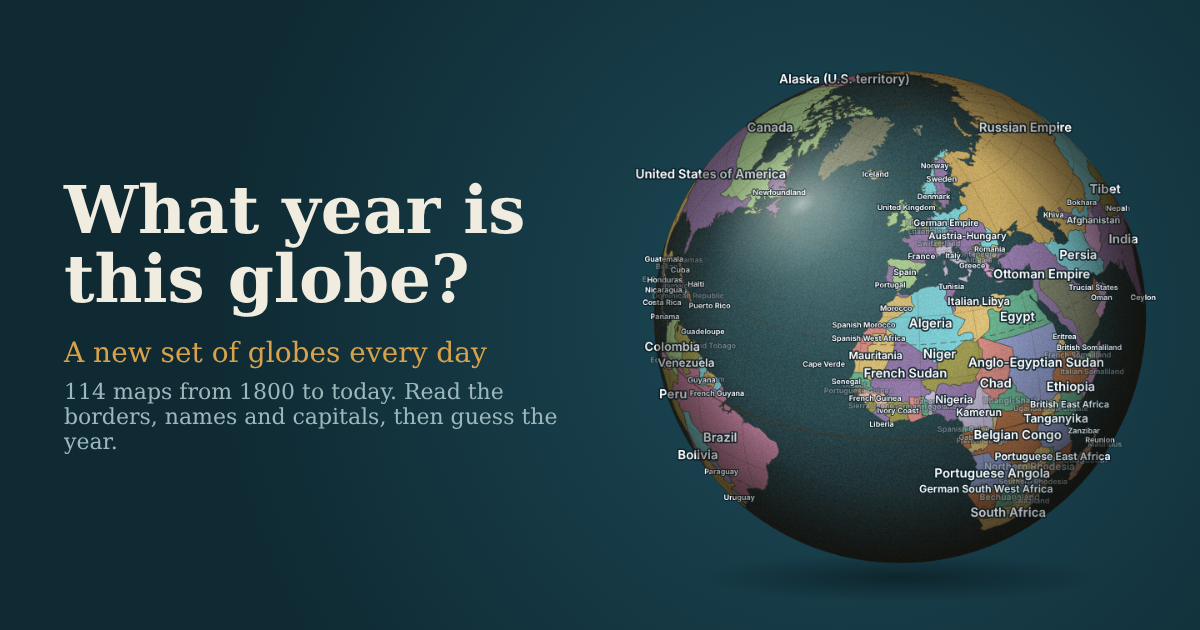
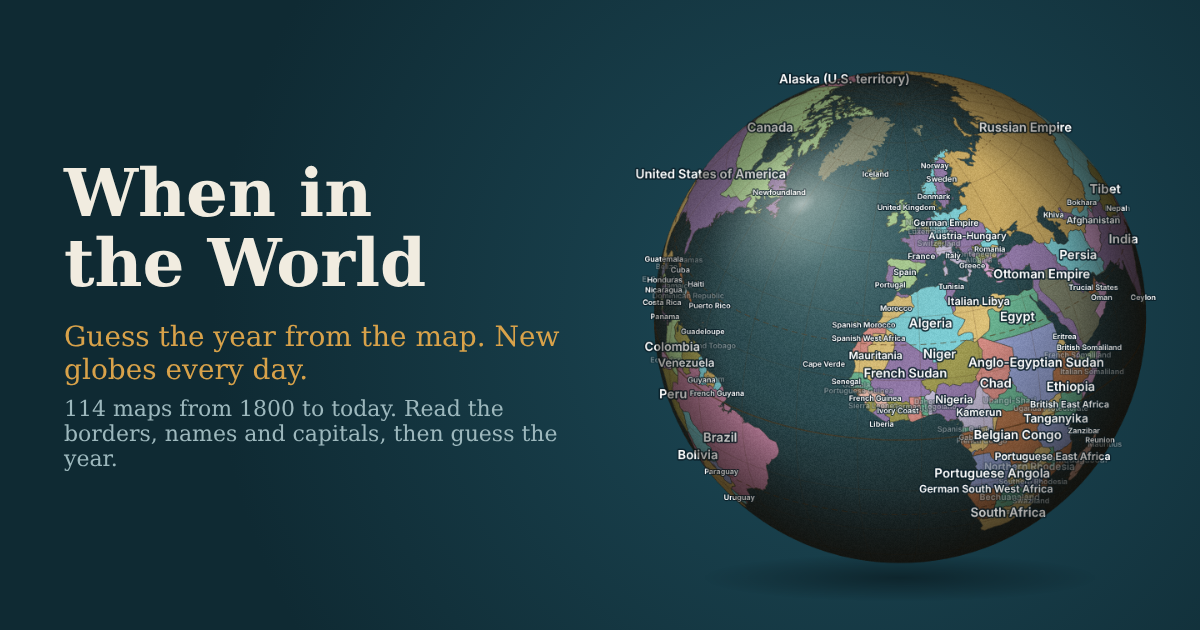
Add files via upload

Changed region(s): [[0.0308, 0.2413, 0.4625, 0.754]]

diff --git a/index (2).html b/index (2).html
@@ -1,0 +1,334 @@
+<!DOCTYPE html>
+<html lang="en"><head><meta charset="utf-8">
+<meta name="viewport" content="width=device-width, initial-scale=1, viewport-fit=cover">
+<title>When in the World</title>
+<meta name="description" content="A daily history and geography game. Spin a globe from any year between 1800 and today, read the borders, names and capitals, and guess the year.">
+<meta property="og:title" content="When in the World">
+<meta property="og:description" content="Spin a historical globe, read the borders and capitals, and guess the year. New set every day.">
+<meta property="og:type" content="website">
+<meta property="og:image" content="og-image.png">
+<meta name="twitter:card" content="summary_large_image">
+<meta name="theme-color" content="#0f2a33">
+<link rel="icon" href="favicon.svg" type="image/svg+xml">
+<style>
+:root{--bg:#0f2a33;--panel:#163b47;--ink:#f1ece0;--dim:#9db8bd;--brass:#d8a24a;--sea:#1d5d73;--good:#7fd1a0;--bad:#e98a7c;box-sizing:border-box;padding-top:env(safe-area-inset-top,0px);padding-bottom:env(safe-area-inset-bottom,0px)}
+@media (prefers-color-scheme:light){:root:not([data-theme="dark"]){--bg:#e4ecec;--panel:#d1dfe0;--ink:#12303a;--dim:#4a6a72;--brass:#8a5f12;--sea:#6aa0b3;--good:#1f7a49;--bad:#b0392b}}
+:root[data-theme="light"]{--bg:#e4ecec;--panel:#d1dfe0;--ink:#12303a;--dim:#4a6a72;--brass:#8a5f12;--sea:#6aa0b3;--good:#1f7a49;--bad:#b0392b}
+*{box-sizing:border-box}html,body{margin:0;min-height:100%}
+body{background:var(--bg);color:var(--ink);font-family:Palatino,"Palatino Linotype","Book Antiqua",Georgia,serif;line-height:1.5}
+main{max-width:780px;margin:0 auto;padding:20px 16px 40px;text-align:center}
+.tm{font-size:.45em;vertical-align:super;margin-left:2px;font-weight:400}h1{font-size:1.7rem;font-weight:600;margin:4px 0 2px}.sub{color:var(--dim);margin:0 0 14px}
+.bar{display:flex;justify-content:space-between;color:var(--dim);font-size:.95rem;margin-bottom:6px}
+#stage{position:relative;width:100%;aspect-ratio:1;max-width:720px;margin:0 auto;touch-action:none}
+canvas{width:100%;height:100%;display:block;cursor:grab}
+.zoom{position:absolute;top:6px;right:6px;display:flex;flex-direction:column;gap:6px}.zoom button{margin:0;padding:0;width:40px;height:40px;font-size:1.3rem;line-height:1}.zoom button#zr{font-size:.8rem}
+.hint{color:var(--dim);font-size:.9rem;margin:2px 0 14px}
+.year{font-size:3.2rem;font-weight:600;color:var(--brass);line-height:1.1;font-variant-numeric:tabular-nums}
+input[type=range]{width:100%;accent-color:var(--brass);height:36px}
+.ends{display:flex;justify-content:space-between;color:var(--dim);font-size:.85rem;margin-top:-6px}
+button{font:inherit;font-size:1.05rem;background:var(--brass);color:#1b1405;border:0;border-radius:6px;padding:11px 26px;margin-top:14px;cursor:pointer;font-weight:600}
+button:focus-visible,input:focus-visible,canvas:focus-visible{outline:3px solid var(--ink);outline-offset:2px}
+button.alt{background:transparent;color:var(--ink);border:1px solid var(--dim);margin-left:8px}button:disabled{opacity:.5;cursor:default}
+.card{background:var(--panel);border-radius:8px;padding:14px 16px;margin-top:14px;text-align:left}.card b{color:var(--brass)}
+.pts{font-size:1.5rem;font-weight:600}.hide{display:none}
+footer{max-width:780px;margin:0 auto;padding:0 16px 28px;text-align:center;color:var(--dim);font-size:.85rem}footer a{color:var(--dim)}
+.menu button{display:block;width:100%;margin:10px 0 0}.menu small{display:block;font-weight:400;opacity:.8;font-size:.85rem}
+.menu .big{font-size:1.25rem;padding:16px}.menu .locked{opacity:.65}.menu details{margin-top:16px;color:var(--dim)}.menu summary{cursor:pointer;color:var(--ink)}
+.kicker{color:var(--dim);margin:0 0 6px;font-size:.92rem}.kicker b{color:var(--brass);font-variant-numeric:tabular-nums}
+.stats{display:grid;grid-template-columns:repeat(4,1fr);gap:8px;text-align:center;margin:14px 0 6px}.stats div{background:var(--bg);border-radius:6px;padding:8px 2px}
+.stats b{display:block;font-size:1.4rem;color:var(--brass);font-variant-numeric:tabular-nums}.stats span{font-size:.72rem;color:var(--dim);line-height:1.2;display:block}
+table.bd{width:100%;border-collapse:collapse;font-size:.9rem;margin:10px 0;font-variant-numeric:tabular-nums}
+table.bd th,table.bd td{padding:6px 4px;border-bottom:1px solid rgba(157,184,189,.25);text-align:right}table.bd th:first-child,table.bd td:first-child{text-align:left}
+table.bd th{color:var(--dim);font-weight:400;font-size:.75rem;line-height:1.2}.tag{font-size:.7rem;color:var(--dim);border:1px solid var(--dim);border-radius:3px;padding:0 3px}
+.histo{display:flex;align-items:flex-end;gap:3px;height:60px;margin:10px 0 2px}.histo i{flex:1;background:var(--dim);opacity:.45;border-radius:2px 2px 0 0}.histo i.me{background:var(--brass);opacity:1}
+#res button{margin-right:8px}#res button.alt{margin-left:0}
+</style></head><body><main>
+<h1>When in the World<sup class="tm">™</sup></h1><p class="sub">What year is this globe? Read the borders and names. Their era gives it away.</p>
+<div id="menu" class="menu card"></div>
+<div id="game" class="hide"><div class="bar"><span id="rd"></span><span id="tot"></span></div>
+<div id="stage" class=""><canvas id="cv" tabindex="0" aria-label="Globe. Drag to spin, arrow keys also work."></canvas><div class="zoom"><button id="zi" aria-label="Zoom in">+</button><button id="zo" aria-label="Zoom out">−</button><button id="zr" aria-label="Reset zoom">1×</button></div></div>
+<p class="hint">Drag to spin · scroll, pinch or use + / − to zoom. Capitals (◉) and major cities appear once you zoom in.</p>
+<div id="guess"><div class="year" id="yr">1960</div>
+<input id="sl" type="range" min="1800" max="2025" value="1960" aria-label="Guess a year">
+<div class="ends"><span id="e1">1800</span><span id="e2">2025</span></div>
+<button id="go">Lock in guess</button><button id="hint" class="alt">Hint (−150)</button></div>
+<div id="res" class="card hide"></div><button id="next" class="hide">Next globe</button></div>
+<p id="err" class="card hide">Something went wrong.</p>
+</main>
+<footer>Map data: <a href="https://icr.ethz.ch/data/cshapes/">CShapes 2.0</a> (ETH Zürich, CC BY-NC-SA 4.0) and <a href="https://github.com/aourednik/historical-basemaps">Historical Basemaps</a> (GPL v3). <a href="credits.html">Credits, licences and privacy</a><br>© 2026 When in the World™</footer>
+<script src="data/globes-historical-basemaps.js"></script>
+<script src="data/globes-cshapes.js"></script>
+<script>/* if the map files were uploaded next to index.html instead of inside data/, load them from there */
+if(!window.HB_GLOBES)document.write('<script src="globes-historical-basemaps.js"><\/script>');
+if(!window.CS_GLOBES)document.write('<script src="globes-cshapes.js"><\/script>');</script>
+<script>
+// every globe comes from data/globes.js (built by build_globes.py): {y, lo, hi, note, f:[[shape, name]], caps:[[lat, lon, name]], cities:[[lat, lon, tier, name]]}
+const GL=(window.HB_GLOBES||[]).map(g=>({...g,S:HB_SHAPES})).concat((window.CS_GLOBES||[]).map(g=>({...g,S:CS_SHAPES}))),THIS_YEAR=new Date().getFullYear();
+if(GL.length&&GL[GL.length-1].hi<THIS_YEAR)GL[GL.length-1].hi=THIS_YEAR;   // nothing has changed since the last globe
+const MAXY=Math.max(THIS_YEAR,GL.length?GL[GL.length-1].hi:2025);
+// ---------- settings you can change ----------
+const CONFIG={
+  LAUNCH:"2026-10-27",   // puzzle #1 is played on this date (players' local time). Set it to your launch day.
+  UNLIMITED:"locked",    // "locked" shows Unlimited play as "coming soon"; "free" lets anyone play it
+  API:"/api"             // the scoreboard (Cloudflare Pages Functions in functions/api)
+};
+const MODES={easy:{pen:15,n:5,t:"Easy"},normal:{pen:25,n:8,t:"Normal"},hard:{pen:50,n:12,t:"Hard"},daily:{pen:25,n:5,t:"Daily"}};
+const _d=new Date(),TODAY=_d.getFullYear()+"-"+String(_d.getMonth()+1).padStart(2,"0")+"-"+String(_d.getDate()).padStart(2,"0");
+// 18 muted atlas colours, picked so every pair is clearly different (OKLab distance >= 0.076)
+const PAL=["#d8b86a","#967dc3","#7cebfe","#e3aeef","#bf784f","#64c7a7","#b3e9a7","#ec9695","#fdcac0","#97aef4","#a2a453","#ca84b3","#d6d2fd","#f2d585","#9dcce4","#c8a4c3","#b7cca4","#c19188"];
+const LZ=2; // country and city names stay hidden until you zoom in this far
+function lab(h){const f=i=>{const c=parseInt(h.slice(i,i+2),16)/255;return c<=.04045?c/12.92:((c+.055)/1.055)**2.4},r=f(1),g=f(3),b=f(5);
+  const l=Math.cbrt(.4122*r+.5363*g+.0514*b),m=Math.cbrt(.2119*r+.6807*g+.1074*b),q=Math.cbrt(.0883*r+.2817*g+.6300*b);
+  return[.2105*l+.7936*m-.0041*q,1.978*l-2.4286*m+.4506*q,.0259*l+.7828*m-.8087*q]}
+const PLAB=PAL.map(lab),dE=(i,j)=>Math.hypot(PLAB[i][0]-PLAB[j][0],PLAB[i][1]-PLAB[j][1],PLAB[i][2]-PLAB[j][2]);
+const $=id=>document.getElementById(id),cv=$("cv"),ctx=cv.getContext("2d"),css=n=>getComputedStyle(document.documentElement).getPropertyValue(n).trim();
+let order=[],idx=0,total=0,mode="normal",hintUsed=false,marks=[],lon0=0,lat0=20,drag=null,auto=true,zoom=1,FEATS=[],LAB=[],proj,path;
+window.onerror=(m,s,l)=>{$("err").textContent="Something went wrong: "+m+" (line "+l+")";$("err").classList.remove("hide")};
+const rad=Math.PI/180;
+const OFFS=[[0,0]];for(const r of [1,2,3])for(const [x,y] of [[0,1],[0,-1],[1.6,0],[-1.6,0],[1.2,.8],[-1.2,.8],[1.2,-.8],[-1.2,-.8]])OFFS.push([x*r,y*r]);
+if(!GL.length){$("menu").classList.add("hide");$("err").textContent="The map files did not load. Make sure globes-cshapes.js and globes-historical-basemaps.js were uploaded (inside a data folder, or next to index.html).";$("err").classList.remove("hide")}
+function size(){const r=cv.getBoundingClientRect(),d=devicePixelRatio||1;cv.width=r.width*d;cv.height=r.height*d}
+function hash(s){let h=0;for(const c of s)h=h*31+c.charCodeAt(0)|0;return Math.abs(h)}
+let BASE=null;
+function prep(){if(!BASE)BASE=LAND.flatMap(poly=>poly.map(dens));
+  // join pieces that share a name (e.g. two "Italy" shapes) so they get one colour and one label
+  const byName=new Map();
+  for(const[si,nm]of GL[order[idx]].f){const f={n:nm,...GL[order[idx]].S[si]},o=byName.get(f.n);
+    if(!o)byName.set(f.n,{n:f.n,g:f.g,a:f.a,c:f.c,big:f.a});else{o.g=o.g.concat(f.g);o.a+=f.a;if(f.a>o.big){o.big=f.a;o.c=f.c}}}
+  const m=[...byName.values()];
+  // neighbours: walk every border at 0.5 degree steps and treat shapes within ~1 degree of each other as touching
+  const cell=new Map(),nb=m.map(()=>new Set()),key=(x,y)=>(((x%720)+720)%720)+","+y;
+  const mark=(lon,lat,i)=>{const k=key(Math.round(lon*2),Math.round(lat*2));let c=cell.get(k);if(!c)cell.set(k,c=new Set());c.add(i)};
+  m.forEach((f,i)=>f.g.forEach(poly=>poly.forEach(r=>{for(let j=0;j<r.length;j++){const a=r[j],b=r[(j+1)%r.length],st=Math.max(1,Math.ceil(Math.hypot(b[0]-a[0],b[1]-a[1])*2));
+    if(Math.abs(b[0]-a[0])>180){mark(a[0],a[1],i);continue}
+    for(let t=0;t<st;t++)mark(a[0]+(b[0]-a[0])*t/st,a[1]+(b[1]-a[1])*t/st,i)}})));
+  cell.forEach((s,k)=>{const[x,y]=k.split(",").map(Number);for(let dx=-1;dx<=1;dx++)for(let dy=-1;dy<=1;dy++){const o=cell.get(key(x+dx,y+dy));if(o)for(const a of s)for(const b of o)if(a!==b)nb[a].add(b)}});
+  // DSatur colouring: colour the most constrained shape first, never reuse a neighbour's colour,
+  // and pick the colour that is most different from all neighbouring colours
+  const cols=new Array(m.length).fill(-1),use=new Array(PAL.length).fill(0);
+  for(let n=0;n<m.length;n++){let best=-1,bs=-1,bd=-1;
+    m.forEach((_,i)=>{if(cols[i]>=0)return;const sat=new Set([...nb[i]].map(j=>cols[j]).filter(c=>c>=0)).size;if(sat>bs||sat===bs&&nb[i].size>bd){best=i;bs=sat;bd=nb[i].size}});
+    const nc=[...nb[best]].map(j=>cols[j]).filter(c=>c>=0);let pick=0,ps=-1;
+    PAL.forEach((_,c)=>{if(nc.includes(c))return;const sep=nc.length?Math.min(...nc.map(o=>dE(c,o))):1,sc=sep-use[c]*.002;if(sc>ps){ps=sc;pick=c}});
+    cols[best]=pick;use[pick]++}
+  FEATS=m.map((f,i)=>({f,col:PAL[cols[i]],ci:cols[i],nb:nb[i],rings:f.g.flatMap(poly=>poly.map(dens))}));
+  LAB=m.filter(f=>f.n!=="Antarctica").sort((a,b)=>b.a-a.a)}
+function vec(lon,lat){const p=lat*rad,l=lon*rad;return[Math.cos(p)*Math.sin(l),Math.sin(p),Math.cos(p)*Math.cos(l)]}
+function dens(r){const out=[];let n=r.length;if(n>1&&r[0][0]===r[n-1][0]&&r[0][1]===r[n-1][1])n--;
+  for(let i=0;i<n;i++){const a=vec(r[i][0],r[i][1]),b=vec(r[(i+1)%n][0],r[(i+1)%n][1]);out.push(a[0],a[1],a[2]);
+    const th=Math.acos(Math.max(-1,Math.min(1,a[0]*b[0]+a[1]*b[1]+a[2]*b[2]))),k=Math.ceil(th/.045);
+    if(k>1&&th<3.1){const s=Math.sin(th);for(let j=1;j<k;j++){const t=j/k,w1=Math.sin((1-t)*th)/s,w2=Math.sin(t*th)/s;out.push(a[0]*w1+b[0]*w2,a[1]*w1+b[1]*w2,a[2]*w1+b[2]*w2)}}}
+  return Float32Array.from(out)}
+function setZoom(z){zoom=Math.min(14,Math.max(1,z));$("zr").textContent=(zoom<10?zoom.toFixed(1):Math.round(zoom))+"×"}
+function draw(){if(!cv.width||!order.length||!BASE||!$("game").offsetParent||$("stage").classList.contains("hide"))return;
+  const W=cv.width,H=cv.height,d=W/cv.getBoundingClientRect().width,M=Math.min(W,H);
+  // f = 1 when the whole globe is in view; it eases to 0 as you zoom in (the shadow under the globe fades out)
+  const f=Math.max(0,Math.min(1,(1.8-zoom)/.8));
+  const R=M*(.43-.02*f)*zoom,cx=W/2,cy=H/2-H*.03*f;
+  const cl=Math.cos(lon0*rad),sl=Math.sin(lon0*rad),cp=Math.cos(lat0*rad),sp=Math.sin(lat0*rad);
+  const rot=(x,y,z)=>{const x1=x*cl-z*sl,z1=x*sl+z*cl,y1=y*cp-z1*sp;return[x1,y1,y*sp+z1*cp]};
+  const P=(lon,lat)=>{const v=vec(lon,lat),r=rot(v[0],v[1],v[2]);return[cx+r[0]*R,cy-r[1]*R,r[2]]};
+  ctx.clearRect(0,0,W,H);
+  // soft shadow on the "table" under the globe
+  if(f>0){const sy=cy+R*1.06,sh=ctx.createRadialGradient(cx,sy,0,cx,sy,R*.8);sh.addColorStop(0,`rgba(0,0,0,${.38*f})`);sh.addColorStop(1,"rgba(0,0,0,0)");
+    ctx.save();ctx.translate(cx,sy);ctx.scale(1,.12);ctx.translate(-cx,-sy);ctx.fillStyle=sh;ctx.beginPath();ctx.arc(cx,sy,R*.8,0,7);ctx.fill();ctx.restore()}
+  // the sphere: ocean, then land, then the ink grid, then varnish and shading
+  const g=ctx.createRadialGradient(cx-R*.3,cy-R*.35,R*.1,cx,cy,R);g.addColorStop(0,css("--sea"));g.addColorStop(1,"#0b2a38");
+  ctx.beginPath();ctx.arc(cx,cy,R,0,7);ctx.fillStyle=g;ctx.fill();
+  ctx.save();ctx.beginPath();ctx.arc(cx,cy,R,0,7);ctx.clip();
+  ctx.lineWidth=.8*d;ctx.strokeStyle="rgba(25,35,35,.6)";
+  ctx.beginPath();for(const ring of BASE)trace(ring);ctx.fillStyle="#7d8b78";ctx.fill("evenodd");
+  for(const o of FEATS){ctx.beginPath();for(const ring of o.rings)trace(ring);ctx.fillStyle=o.col;ctx.fill("evenodd");ctx.stroke()}
+  // engraved-style grid in brown ink: every 15 degrees, plus the equator, tropics and polar circles
+  const line=(pts)=>{let pen=false;for(const[l,a]of pts){const p=P(l,a);if(p[2]>0){pen?ctx.lineTo(p[0],p[1]):ctx.moveTo(p[0],p[1]);pen=true}else pen=false}};
+  const par=a=>{const o=[];for(let l=-180;l<=180;l+=3)o.push([l,a]);return o},mer=l=>{const o=[];for(let a=-90;a<=90;a+=3)o.push([l,a]);return o};
+  ctx.strokeStyle="rgba(60,38,15,.28)";ctx.lineWidth=.8*d;ctx.beginPath();
+  for(let a=-75;a<=75;a+=15)if(a)line(par(a));for(let l=-180;l<180;l+=15)line(mer(l));ctx.stroke();
+  ctx.strokeStyle="rgba(70,40,12,.6)";ctx.lineWidth=1.5*d;ctx.beginPath();line(par(0));ctx.stroke();
+  ctx.setLineDash([7*d,5*d]);ctx.lineWidth=1.1*d;ctx.beginPath();line(par(23.44));line(par(-23.44));ctx.stroke();
+  ctx.setLineDash([2*d,4*d]);ctx.beginPath();line(par(66.56));line(par(-66.56));ctx.stroke();ctx.setLineDash([]);
+  ctx.fillStyle="rgba(150,105,45,.14)";ctx.fillRect(0,0,W,H);   // aged varnish tint
+  ctx.fillStyle=grain();ctx.fillRect(0,0,W,H);
+  const L=ctx.createRadialGradient(cx-R*.38,cy-R*.42,R*.1,cx-R*.12,cy-R*.12,R*1.22);L.addColorStop(0,"rgba(255,244,215,.22)");L.addColorStop(.5,"rgba(0,0,0,0)");L.addColorStop(1,"rgba(10,5,0,.6)");
+  ctx.fillStyle=L;ctx.fillRect(0,0,W,H);
+  ctx.restore();
+  function trace(ring){const n=ring.length/3,rp=new Float32Array(n*3);let any=false;
+    for(let i=0;i<n;i++){const r=rot(ring[i*3],ring[i*3+1],ring[i*3+2]);rp[i*3]=r[0];rp[i*3+1]=r[1];rp[i*3+2]=r[2];if(r[2]>=0)any=true}
+    if(!any)return;const out=[];
+    for(let i=0;i<n;i++){const j=(i+n-1)%n,cz=rp[i*3+2],pz=rp[j*3+2],cin=cz>=0,pin=pz>=0;
+      if(cin!==pin){const t=pz/(pz-cz),x=rp[j*3]+(rp[i*3]-rp[j*3])*t,y=rp[j*3+1]+(rp[i*3+1]-rp[j*3+1])*t,L=Math.hypot(x,y)||1;out.push([x/L,y/L,1])}
+      if(cin)out.push([rp[i*3],rp[i*3+1],0])}
+    const m=out.length;if(m<3)return;
+    for(let k=0;k<m;k++){const p=out[k],q=out[(k+1)%m];k?ctx.lineTo(cx+p[0]*R,cy-p[1]*R):ctx.moveTo(cx+p[0]*R,cy-p[1]*R);
+      if(p[2]&&q[2]){const a1=Math.atan2(p[1],p[0]);let da=Math.atan2(q[1],q[0])-a1;while(da>Math.PI)da-=2*Math.PI;while(da<-Math.PI)da+=2*Math.PI;
+        const st=Math.max(1,Math.ceil(Math.abs(da)/.07));for(let s=1;s<st;s++){const a=a1+da*s/st;ctx.lineTo(cx+Math.cos(a)*R,cy-Math.sin(a)*R)}}}
+    ctx.closePath()}
+  const boxes=[],G=GL[order[idx]],INK="rgba(10,30,40,.9)";let curFont="";
+  const hit=b=>boxes.some(o=>b[0]<o[2]&&b[2]>o[0]&&b[1]<o[3]&&b[3]>o[1]);
+  // draws a label unless it would overlap one already drawn (force draws it anyway)
+  // clean upright sans-serif with a thin dark outline reads far better at small sizes than italic serif
+  const FONT='"Segoe UI", system-ui, -apple-system, "Helvetica Neue", Arial, sans-serif';
+  const put=(txt,x,y,fs,weight,anchor,dx,force,alpha,queue)=>{const f=`${weight} ${fs.toFixed(1)}px ${FONT}`;if(f!==curFont){ctx.font=curFont=f}
+    const w=ctx.measureText(txt).width,x0=anchor==="l"?x+dx:x-w/2,b=[x0-1.5*d,y-fs*.58,x0+w+1.5*d,y+fs*.58];
+    if(b[2]<0||b[0]>W||b[3]<0||b[1]>H)return false;if(!force&&hit(b))return false;boxes.push(b);if(queue){queue.push([txt,x0,y,f,fs,alpha||1]);return true}
+    ctx.globalAlpha=alpha||1;ctx.textAlign="left";ctx.lineWidth=Math.max(2.2*d,fs*.22);ctx.strokeStyle=INK;ctx.strokeText(txt,x0,y);ctx.fillStyle="#fff";ctx.fillText(txt,x0,y);ctx.globalAlpha=1;return true};
+  ctx.textBaseline="middle";ctx.lineJoin="round";ctx.miterLimit=2;
+  // Every country on the visible side is named; text size follows its size on screen.
+  // Big countries are placed first (their names matter most), then smaller ones look for a free spot nearby.
+  // A label that cannot find a free spot nearby is still drawn, but faded so it does not hide readable ones.
+  const todo=[];for(const f of LAB){const p=P(f.c[0],f.c[1]);if(p[2]<.12)continue;const s=Math.sqrt(f.a)*rad*R;
+    todo.push({f,p,s,fs:Math.round(Math.max(9*d,Math.min(15*d,s*.3))*2)/2})}
+  todo.sort((a,b)=>b.s-a.s);let forced=0;const Q=[];
+  for(const t of todo){const reach=Math.max(t.s*.4,t.fs*2.4);let ok=false;
+    for(const [ox,oy] of OFFS){const dx=ox*t.fs*1.25,dy=oy*t.fs*1.25;if(Math.hypot(dx,dy)>reach)continue;
+      if(put(t.f.n,t.p[0]+dx,t.p[1]+dy,t.fs,600,"c",0,false,1,Q)){ok=true;break}}
+    if(!ok){forced++;put(t.f.n,t.p[0],t.p[1],t.fs,600,"c",0,true,.4,Q)}}
+  // faded (crowded) names go underneath, readable ones on top
+  Q.sort((a,b)=>a[5]-b[5]);ctx.textAlign="left";
+  for(const[txt,x0,y,f,fs,al]of Q){if(f!==curFont)ctx.font=curFont=f;ctx.globalAlpha=al;ctx.lineWidth=Math.max(2.2*d,fs*.22);ctx.strokeStyle=INK;ctx.strokeText(txt,x0,y);ctx.fillStyle="#fff";ctx.fillText(txt,x0,y)}ctx.globalAlpha=1;
+  window.__forced=forced;
+  // capitals (ringed dot) and major cities (plain dot), named as they were in this globe's years
+  const dot=(p,cap)=>{ctx.fillStyle="#fff";ctx.strokeStyle=INK;ctx.lineWidth=d;ctx.beginPath();ctx.arc(p[0],p[1],(cap?3.4:2.6)*d,0,7);ctx.fill();ctx.stroke();
+    if(cap){ctx.fillStyle=INK;ctx.beginPath();ctx.arc(p[0],p[1],1.3*d,0,7);ctx.fill()}};
+  if(zoom>=LZ){const fs=11*d;
+    for(const c of G.caps){const p=P(c[1],c[0]);if(p[2]<.12)continue;dot(p,true);for(const k of [0,1,-1])if(put(c[2],p[0],p[1]+k*fs,fs,500,"l",6*d,false))break}
+    for(const c of G.cities){if(zoom<[LZ,2.8,4.5][c[2]-1])continue;const p=P(c[1],c[0]);if(p[2]<.12)continue;if(put(c[3],p[0],p[1],fs,400,"l",6*d,false))dot(p,false)}}
+  // rim darkening and a varnish highlight
+  const s=ctx.createRadialGradient(cx,cy,R*.72,cx,cy,R);s.addColorStop(0,"rgba(0,0,0,0)");s.addColorStop(1,"rgba(15,8,0,.42)");
+  ctx.beginPath();ctx.arc(cx,cy,R,0,7);ctx.fillStyle=s;ctx.fill();
+  ctx.save();ctx.beginPath();ctx.arc(cx,cy,R,0,7);ctx.clip();const k=.35+.65*f;
+  ctx.translate(cx-R*.4,cy-R*.46);ctx.rotate(-.6);ctx.scale(1,.62);
+  let hl=ctx.createRadialGradient(0,0,0,0,0,R*.42);hl.addColorStop(0,`rgba(255,252,240,${.26*k})`);hl.addColorStop(.45,`rgba(255,250,235,${.1*k})`);hl.addColorStop(1,"rgba(255,255,255,0)");
+  ctx.fillStyle=hl;ctx.beginPath();ctx.arc(0,0,R*.42,0,7);ctx.fill();
+  hl=ctx.createRadialGradient(0,0,0,0,0,R*.07);hl.addColorStop(0,`rgba(255,255,255,${.3*k})`);hl.addColorStop(1,"rgba(255,255,255,0)");ctx.fillStyle=hl;ctx.beginPath();ctx.arc(0,0,R*.07,0,7);ctx.fill();
+  ctx.restore();
+}
+function grain(){if(GR)return GR;const c=document.createElement("canvas");c.width=c.height=128;const x=c.getContext("2d"),im=x.createImageData(128,128);
+  for(let i=0;i<im.data.length;i+=4){im.data[i]=im.data[i+1]=im.data[i+2]=Math.random()*255;im.data[i+3]=20}x.putImageData(im,0,0);return GR=ctx.createPattern(c,"repeat")}
+function tick(){if(auto&&!drag&&zoom<1.5&&!matchMedia("(prefers-reduced-motion: reduce)").matches)lon0+=.15;requestAnimationFrame(tick);if(!drag&&(Math.abs(mom.x)>.02||Math.abs(mom.y)>.02)){lon0+=mom.x;lat0=Math.max(-75,Math.min(75,lat0+mom.y));mom.x*=.94;mom.y*=.94}draw()}
+const ptrs=new Map(),mom={x:0,y:0};let pinch=0,lastMove=0,GR=null;
+cv.addEventListener("pointerdown",e=>{ptrs.set(e.pointerId,{x:e.clientX,y:e.clientY});cv.setPointerCapture(e.pointerId);auto=false;drag=true;pinch=0;mom.x=mom.y=0});
+cv.addEventListener("pointermove",e=>{const p=ptrs.get(e.pointerId);if(!p)return;
+  if(ptrs.size===2){ptrs.set(e.pointerId,{x:e.clientX,y:e.clientY});const[A,B]=[...ptrs.values()],dd=Math.hypot(A.x-B.x,A.y-B.y);if(pinch)setZoom(zoom*dd/pinch);pinch=dd;return}
+  mom.x=-(e.clientX-p.x)*.4/zoom;mom.y=(e.clientY-p.y)*.3/zoom;lastMove=performance.now();lon0-=(e.clientX-p.x)*.4/zoom;lat0=Math.max(-75,Math.min(75,lat0+(e.clientY-p.y)*.3/zoom));ptrs.set(e.pointerId,{x:e.clientX,y:e.clientY})});
+const up=e=>{ptrs.delete(e.pointerId);pinch=0;drag=ptrs.size>0;if(performance.now()-lastMove>80)mom.x=mom.y=0};cv.addEventListener("pointerup",up);cv.addEventListener("pointercancel",up);
+cv.addEventListener("wheel",e=>{e.preventDefault();setZoom(zoom*Math.exp(-e.deltaY*.002))},{passive:false});
+$("zi").onclick=()=>setZoom(zoom*1.6);$("zo").onclick=()=>setZoom(zoom/1.6);$("zr").onclick=()=>setZoom(1);
+cv.addEventListener("keydown",e=>{const k={ArrowLeft:[-10,0],ArrowRight:[10,0],ArrowUp:[0,8],ArrowDown:[0,-8]}[e.key];if(k){lon0+=k[0];lat0=Math.max(-75,Math.min(75,lat0+k[1]));auto=false;e.preventDefault()}if(e.key==="+"||e.key==="=")setZoom(zoom*1.4);if(e.key==="-")setZoom(zoom/1.4)});
+$("sl").oninput=e=>$("yr").textContent=e.target.value;
+const store={get(k,d){try{const v=localStorage.getItem(k);return v?JSON.parse(v):d}catch(e){return d}},set(k,v){try{localStorage.setItem(k,JSON.stringify(v))}catch(e){}}};
+let dev=store.get("wyitg-device",null);if(!dev){dev=(self.crypto&&crypto.randomUUID)?crypto.randomUUID():"d"+Math.random().toString(36).slice(2)+Date.now().toString(36);store.set("wyitg-device",dev)}
+let rounds=[];
+const fmt=n=>n.toLocaleString("en-US"),span=G=>G.lo===G.hi?""+G.lo:G.lo+"–"+G.hi,markOf=r=>r.off===0?"🟩":r.off<=10?"🟨":"🟥";
+
+// ---------- daily schedule ----------
+// Puzzle #1 is CONFIG.LAUNCH. History is split into five eras with the same number of globes in each;
+// every day gets one globe from each era, in a shuffled order. Within an era no globe repeats until
+// all of that era's globes have been used (about three weeks), then the era is reshuffled.
+function dayNumber(){const[a,b,c]=CONFIG.LAUNCH.split("-").map(Number),n=new Date();
+  return Math.max(1,Math.round((Date.UTC(n.getFullYear(),n.getMonth(),n.getDate())-Date.UTC(a,b-1,c))/864e5)+1)}
+const DAY=dayNumber();
+const ERAS=(()=>{const ids=[...GL.keys()].sort((a,b)=>GL[a].lo-GL[b].lo);return [0,1,2,3,4].map(j=>ids.slice(Math.round(j*ids.length/5),Math.round((j+1)*ids.length/5)))})();
+function shuffled(arr,seed){const a=[...arr],r=rng(hash(seed));for(let i=a.length-1;i>0;i--){const j=Math.floor(r()*(i+1));[a[i],a[j]]=[a[j],a[i]]}return a}
+// each era's order for cycle c; globes used at the end of the previous cycle are moved back so nothing repeats within about two weeks
+const CYC={};
+function cycleOrder(j,c){const key=j+":"+c;if(CYC[key])return CYC[key];const P=shuffled(ERAS[j],"era"+j+"-cycle"+c);
+  if(c>0){const prev=cycleOrder(j,c-1),L=prev.length,last=new Map(prev.map((g,p)=>[g,p])),left=[...P],out=[];
+    // fill each day with the first shuffled globe that was last seen at least 15 days ago (or the longest ago if none)
+    for(let t=0;t<P.length;t++){const gap=g=>(L-last.get(g))+t;let k=left.findIndex(g=>gap(g)>=15);
+      if(k<0)k=left.reduce((bi,g,i)=>gap(g)>gap(left[bi])?i:bi,0);out.push(left.splice(k,1)[0])}
+    return CYC[key]=out}
+  return CYC[key]=P}
+function dailySet(n){const k=n-1;return shuffled(ERAS.map((era,j)=>cycleOrder(j,Math.floor(k/era.length))[k%era.length]),"day"+n)}
+
+// ---------- screens ----------
+function show(id,on){$(id).classList.toggle("hide",!on)}
+let cdTimer=null;
+function untilMidnight(){const n=new Date(),m=new Date(n.getFullYear(),n.getMonth(),n.getDate()+1);let s=Math.max(0,Math.floor((m-n)/1000));
+  const h=Math.floor(s/3600);s-=h*3600;const mi=Math.floor(s/60);s-=mi*60;return h+"h "+String(mi).padStart(2,"0")+"m "+String(s).padStart(2,"0")+"s"}
+function tickCountdown(){document.querySelectorAll(".cd").forEach(e=>e.textContent=untilMidnight());if(dayNumber()!==DAY)location.reload()}
+function stats(){const s=store.get("wyitg-stats",{played:0,streak:0,best:0,last:0,sum:0,top:0});if(s.last<DAY-1)s.streak=0;return s}
+function home(){mode="daily";show("game",false);show("menu",true);const s=stats(),rec=store.get("wyitg-day-"+TODAY,null);
+  const label=rec&&rec.done?"See today's results":rec&&rec.rounds.length?"Continue today's set":"Play today's 5 globes";
+  let h=`<p class="kicker">Daily set #${DAY} · ${new Date().toLocaleDateString("en-US",{weekday:"long",month:"long",day:"numeric"})}</p>
+  <button class="big" id="playDaily">${label}<small>One globe from each era of history. Same set for everyone today.</small></button>
+  ${rec&&rec.done?`<p class="kicker" style="margin-top:10px">Next set in <b class="cd">${untilMidnight()}</b></p>`:""}
+  <div class="stats"><div><b>${s.played}</b><span>Played</span></div><div><b>${s.streak}</b><span>Current streak</span></div><div><b>${s.best}</b><span>Best streak</span></div><div><b>${s.played?fmt(Math.round(s.sum/s.played)):"–"}</b><span>Average score</span></div></div>`;
+  if(CONFIG.UNLIMITED==="free")h+=`<p class="kicker" style="margin-top:16px">Unlimited play: random globes from all ${GL.length}</p>
+    <button data-m="easy">Easy<small>5 globes. 15 points lost per year off.</small></button><button data-m="normal">Normal<small>8 globes. 25 points lost per year off.</small></button><button data-m="hard">Hard<small>12 globes. 50 points lost per year off. No hints.</small></button>`;
+  else h+=`<button class="alt locked" disabled>Unlimited play<small>Coming soon: play as many globes as you like.</small></button>`;
+  h+=`<details><summary>How to play</summary><p>Each globe shows the world as it was at some point since 1800. Spin it, zoom in to read country names, capitals and cities, then slide to the year you think it shows.</p>
+  <p>Every globe is worth up to 1,000 points. If the map was accurate for a span of years, any year in that span scores full marks. You lose 25 points for each year you are off. A hint narrows the slider to about 25 years but costs 150 points.</p></details>`;
+  $("menu").innerHTML=h;$("playDaily").onclick=startDaily;
+  document.querySelectorAll("#menu button[data-m]").forEach(b=>b.onclick=()=>startUnlimited(b.dataset.m));
+  clearInterval(cdTimer);cdTimer=setInterval(tickCountdown,1000)}
+function begin(){clearInterval(cdTimer);show("menu",false);show("game",true);show("stage",true);document.querySelector(".hint").classList.remove("hide");size();
+  if(idx>=order.length){finish();return}load()}
+function startDaily(){mode="daily";order=dailySet(DAY);const rec=store.get("wyitg-day-"+TODAY,null);
+  if(rec&&rec.done){show("menu",false);show("game",true);showFinal(rec);return}
+  rounds=rec?rec.rounds:[];idx=rounds.length;total=rounds.reduce((a,r)=>a+r.pts,0);marks=rounds.map(markOf);begin()}
+function startUnlimited(m){mode=m;order=[...GL.keys()].sort(()=>Math.random()-.5).slice(0,MODES[m].n);rounds=[];idx=0;total=0;marks=[];begin()}
+
+function load(){hintUsed=false;$("sl").min=1800;$("sl").max=MAXY;$("e1").textContent=1800;$("e2").textContent=MAXY;
+  $("hint").disabled=false;$("hint").textContent="Hint (−150)";$("hint").classList.toggle("hide",mode==="hard");
+  lon0=20;lat0=25;auto=true;setZoom(1);prep();
+  $("rd").textContent=(mode==="daily"?`Daily #${DAY} · `:`${MODES[mode].t} · `)+`Globe ${idx+1} of ${order.length}`;$("tot").textContent=`Score ${fmt(total)}`;
+  show("res",false);show("next",false);show("guess",true)}
+$("hint").onclick=()=>{if(hintUsed)return;hintUsed=true;const G=GL[order[idx]],a=Math.max(1800,G.lo-12),b=Math.min(MAXY,G.hi+12);
+  $("sl").min=a;$("sl").max=b;$("sl").value=Math.min(b,Math.max(a,+$("sl").value));$("yr").textContent=$("sl").value;$("e1").textContent=a;$("e2").textContent=b;
+  $("hint").disabled=true;$("hint").textContent="Hint used (−150)"};
+$("go").onclick=()=>{const G=GL[order[idx]],y=+$("sl").value,off=y<G.lo?G.lo-y:y>G.hi?y-G.hi:0,pts=Math.max(0,Math.round(1000-MODES[mode].pen*off)-(hintUsed?150:0));
+  const r={guess:y,off,pts,hint:hintUsed};rounds.push(r);marks.push(markOf(r));total+=pts;$("tot").textContent=`Score ${fmt(total)}`;show("guess",false);
+  if(mode==="daily")store.set("wyitg-day-"+TODAY,{day:DAY,date:TODAY,rounds,done:false});   // progress is saved, so reloading cannot re-roll a globe
+  const col=off===0?"var(--good)":off<=10?"var(--brass)":"var(--bad)";
+  $("res").innerHTML=`<div class="pts" style="color:${col}">+${fmt(pts)} points</div><p>You guessed <b>${y}</b>. This globe shows the world ${G.lo===G.hi?`in <b>${G.lo}</b>`:`from <b>${G.lo}</b> to <b>${G.hi}</b>`}${G.lo===G.hi?"":" (full marks for any year in that span)"}${off?`, so you were ${off} year${off>1?"s":""} off`:""}.</p><p>${G.note}</p>`;
+  show("res",true);$("next").textContent=idx===order.length-1?"See your results":"Next globe";show("next",true)};
+$("next").onclick=()=>{if(idx<order.length-1){idx++;load();return}finish()};
+
+function finish(){const rec={day:DAY,date:TODAY,rounds,total:rounds.reduce((a,r)=>a+r.pts,0),done:true};
+  if(mode==="daily"){const prev=store.get("wyitg-day-"+TODAY,null);store.set("wyitg-day-"+TODAY,rec);
+    if(!(prev&&prev.done)){const s=store.get("wyitg-stats",{played:0,streak:0,best:0,last:0,sum:0,top:0});
+      if(s.last!==DAY){s.streak=s.last===DAY-1?s.streak+1:1;s.best=Math.max(s.best,s.streak);s.played++;s.sum+=rec.total;s.top=Math.max(s.top,rec.total);s.last=DAY;store.set("wyitg-stats",s)}}}
+  else{try{const k="globe-best-"+mode,b=+localStorage.getItem(k)||0;rec.best=b;if(rec.total>b)localStorage.setItem(k,rec.total)}catch(e){}}
+  showFinal(rec)}
+
+function showFinal(rec){const n=rec.rounds.length,best=n*1000,daily=mode==="daily";rounds=rec.rounds;marks=rounds.map(markOf);
+  show("stage",false);document.querySelector(".hint").classList.add("hide");show("guess",false);show("next",false);
+  $("rd").textContent=daily?`Daily #${rec.day}`:MODES[mode].t;$("tot").textContent=`Score ${fmt(rec.total)}`;
+  const rows=rec.rounds.map((r,i)=>{const G=GL[order[i]];return `<tr><td>${i+1}. ${span(G)}</td><td>${r.guess}</td><td>${r.off?r.off+" yr":"exact"}</td><td><b>${fmt(r.pts)}</b>${r.hint?' <span class="tag">hint</span>':""}</td>${daily?`<td class="avg" id="avg${i}">…</td>`:""}</tr>`}).join("");
+  const t=rec.total/best,msg=t>.85?"You could curate a map library.":t>.6?"A solid cartographer's eye.":t>.3?"Not bad. Brush up on the world wars and decolonisation.":"Time to study your atlases.";
+  const s=stats();
+  $("res").innerHTML=`<div class="pts">${fmt(rec.total)} <span style="color:var(--dim);font-size:1rem">/ ${fmt(best)}</span></div><p style="margin:2px 0 6px">${msg}</p>
+   <p style="font-size:1.4rem;margin:4px 0;letter-spacing:2px">${marks.join("")}</p>
+   <table class="bd"><thead><tr><th>Globe (correct years)</th><th>Your guess</th><th>Off by</th><th>Points</th>${daily?"<th>Players' avg</th>":""}</tr></thead><tbody>${rows}</tbody></table>
+   ${daily?`<div id="cmp" class="kicker">Comparing with other players…</div>
+   <div class="stats"><div><b>${s.played}</b><span>Played</span></div><div><b>${s.streak}</b><span>Current streak</span></div><div><b>${s.best}</b><span>Best streak</span></div><div><b>${s.played?fmt(Math.round(s.sum/s.played)):"–"}</b><span>Average score</span></div></div>
+   <p class="kicker">Next set in <b class="cd">${untilMidnight()}</b></p>`:`<p class="kicker">${rec.best?`Your best in ${MODES[mode].t}: ${fmt(Math.max(rec.best,rec.total))}${rec.total>rec.best?" (new best!)":""}`:""}</p>`}`;
+  const url=location.protocol.startsWith("http")?"\n"+location.origin+location.pathname:"";
+  const txt=(daily?`When in the World #${rec.day}`:`When in the World (${MODES[mode].t})`)+` ${fmt(rec.total)}/${fmt(best)}\n${marks.join("")}${url}`;
+  const sb=document.createElement("button");sb.textContent="Copy result to share";
+  sb.onclick=async()=>{try{await navigator.clipboard.writeText(txt);sb.textContent="Copied"}catch(e){sb.textContent="Copy failed";$("res").insertAdjacentHTML("beforeend",`<p>${txt.replace(/\n/g,"<br>")}</p>`)}};
+  const hb=document.createElement("button");hb.className="alt";hb.textContent=daily?"Back to home":"Play again";hb.onclick=()=>daily?home():startUnlimited(mode);
+  $("res").append(sb,hb);
+  if(!daily){const mb=document.createElement("button");mb.className="alt";mb.textContent="Home";mb.onclick=home;$("res").append(mb)}
+  show("res",true);clearInterval(cdTimer);if(daily){cdTimer=setInterval(tickCountdown,1000);compare(rec)}}
+
+// ---------- compare with everyone else (scoreboard server: functions/api/[[path]].js) ----------
+async function compare(rec){const box=$("cmp");
+  try{const r=await fetch(CONFIG.API+"/score",{method:"POST",headers:{"content-type":"application/json"},
+      body:JSON.stringify({date:rec.date,device:dev,total:rec.total,pts:rec.rounds.map(x=>x.pts)})});
+    if(!r.ok)throw new Error(r.status);const s=await r.json();if(!s.n)throw new Error("empty");
+    s.slots.forEach((v,i)=>{const c=$("avg"+i);if(c)c.textContent=fmt(v)});
+    const mine=Math.min(50,Math.floor(rec.total/100));let below=0;for(let b=0;b<mine;b++)below+=s.hist[b];below+=Math.max(0,s.hist[mine]-1)/2;
+    const others=Math.max(1,s.n-1),pct=s.n>1?Math.round(100*below/others):100;
+    const bars=[];for(let g=0;g<10;g++){let c=0;for(let b=g*5;b<g*5+5&&b<51;b++)c+=s.hist[b];if(g===9)c+=s.hist[50];bars.push(c)}
+    const mx=Math.max(1,...bars),myBar=Math.min(9,Math.floor(rec.total/500));
+    box.innerHTML=`<p style="margin:8px 0 2px;color:var(--ink)">Today's average: <b>${fmt(s.avg)}</b> from ${fmt(s.n)} player${s.n===1?"":"s"}. ${s.n>1?`You scored higher than <b>${pct}%</b> of them.`:"You're the first to finish today's set."}</p>
+      <div class="histo" aria-label="How everyone scored today">${bars.map((c,g)=>`<i class="${g===myBar?"me":""}" style="height:${Math.max(3,Math.round(60*c/mx))}px" title="${g*500}–${g*500+499}: ${c}"></i>`).join("")}</div>
+      <div class="ends" style="margin:0"><span>0</span><span>2,500</span><span>5,000</span></div>`}
+  catch(e){box.textContent="Today's averages will appear here once the scoreboard is online.";document.querySelectorAll(".avg").forEach(c=>c.textContent="–")}}
+
+function rng(seed){let a=seed>>>0;return()=>{a|=0;a=a+0x6D2B79F5|0;let t=Math.imul(a^a>>>15,1|a);t=t+Math.imul(t^t>>>7,61|t)^t;return((t^t>>>14)>>>0)/4294967296}}
+addEventListener("resize",()=>{if(!$("game").classList.contains("hide"))size()});tick();
+if(GL.length)home();
+</script></body></html>

diff --git a/credits (1).html b/credits (1).html
@@ -1,0 +1,60 @@
+<!DOCTYPE html>
+<html lang="en"><head><meta charset="utf-8">
+<meta name="viewport" content="width=device-width, initial-scale=1">
+<title>Credits and licences · When in the World</title>
+<link rel="icon" href="favicon.svg" type="image/svg+xml">
+<style>
+:root{--bg:#0f2a33;--panel:#163b47;--ink:#f1ece0;--dim:#9db8bd;--brass:#d8a24a}
+@media (prefers-color-scheme:light){:root{--bg:#e4ecec;--panel:#d1dfe0;--ink:#12303a;--dim:#4a6a72;--brass:#8a5f12}}
+*{box-sizing:border-box}
+body{margin:0;background:var(--bg);color:var(--ink);font-family:Palatino,"Palatino Linotype","Book Antiqua",Georgia,serif;line-height:1.6}
+main{max-width:680px;margin:0 auto;padding:24px 16px 48px}
+h1{font-size:1.6rem;margin:0 0 4px}h2{font-size:1.15rem;margin:28px 0 6px;color:var(--brass)}
+a{color:var(--brass)}.card{background:var(--panel);border-radius:8px;padding:12px 16px;margin:10px 0}
+small,.dim{color:var(--dim)}code{font-size:.9em}
+</style></head><body><main>
+<p><a href="./">← Back to the game</a></p>
+<h1>Credits and licences</h1>
+<p class="dim">When in the World™ is a free game. The maps come from two research datasets, credited below.</p>
+
+<h2>Borders and capitals, 1886 to today</h2>
+<div class="card">
+<p><b>CShapes 2.0</b>, International Conflict Research, ETH Zürich.<br>
+Schvitz, G., Girardin, L., Rüegger, S., Weidmann, N. B., Cederman, L.-E., &amp; Gleditsch, K. S. (2022).
+"Mapping the International System, 1886–2019: The CShapes 2.0 Dataset." <i>Journal of Conflict Resolution</i> 66(1), 144–161.<br>
+<a href="https://icr.ethz.ch/data/cshapes/">icr.ethz.ch/data/cshapes</a></p>
+<p>Licensed under <a href="https://creativecommons.org/licenses/by-nc-sa/4.0/">Creative Commons BY-NC-SA 4.0</a>.
+For this game the borders were simplified, some names were changed to the forms used at the time, and some capital cities were corrected.
+The resulting file, <a href="globes-cshapes.js">globes-cshapes.js</a>, is shared under the same licence.
+CShapes ends in 2019; no borders on this map have changed since, so the last globe also covers the years after.</p>
+</div>
+
+<h2>Borders for 1800, 1815 and 1880, and the land backdrop</h2>
+<div class="card">
+<p><b>Historical Basemaps</b> by André Ourednik and contributors.
+<a href="https://github.com/aourednik/historical-basemaps">github.com/aourednik/historical-basemaps</a></p>
+<p>Licensed under the <a href="https://www.gnu.org/licenses/gpl-3.0.html">GNU General Public License v3</a>.
+The data is a work in progress, so borders and names are approximate. Simplified and renamed for this game in
+<a href="globes-historical-basemaps.js">globes-historical-basemaps.js</a>, shared under the same licence.
+There is no free worldwide border data for 1816–1877, so the game has no globes for those years.</p>
+</div>
+
+<h2>Source files</h2>
+<div class="card">
+<p>The scripts that turn the datasets into the game's map files are published with the site:</p>
+<ul>
+<li><a href="build_maps.py">build_maps.py</a> (Historical Basemaps → <a href="maps.js">maps.js</a>)</li>
+<li><a href="build_globes.py">build_globes.py</a> (builds both map files)</li>
+<li><a href="build_capitals.py">build_capitals.py</a> (capital city corrections and the 1800–1880 capitals)</li>
+<li><a href="CREDITS.txt">CREDITS.txt</a> (how to rebuild)</li>
+</ul>
+</div>
+
+<h2>Privacy</h2>
+<div class="card"><p>The game uses no cookies and no advertising trackers. Your streak, stats and progress are kept in your own browser on this device.</p>
+<p>When you finish the daily set, your five scores, the date and a random code for this device are sent to our scoreboard so we can show the daily averages.
+The code is not linked to your name, email or any account, and only running totals for each day are kept, not individual results.</p></div>
+
+<p class="dim"><small>This game is not affiliated with or endorsed by ETH Zürich or the Historical Basemaps project. Map borders are simplified and approximate, and borders in disputed areas are shown as recorded in the source data, not as a statement on any dispute.</small></p>
+<p class="dim"><small>© 2026 When in the World™. Game code, text and design are the author's own work. Map data remains under its own licences above.</small></p>
+</main></body></html>
